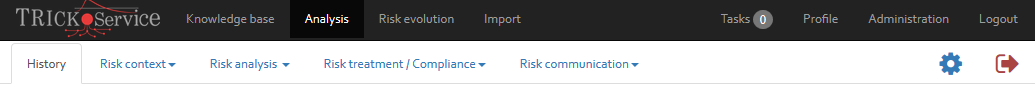
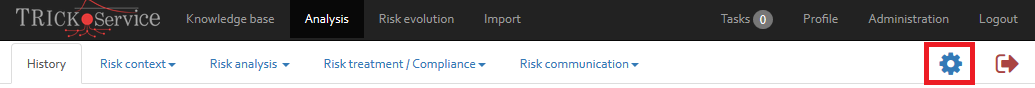
Update compilation. User guide

Changed region(s): [[0.8657, 0.4773, 0.9585, 0.9773]]

diff --git a/src/main/webapp/WEB-INF/static/views/user-guide.html b/src/main/webapp/WEB-INF/static/views/user-guide.html
@@ -1101,24 +1101,19 @@
 		choose to provide a second comment in the “Hidden Comment” column which will not be displayed in the exported report. It
 		is not mandatory for the user to fill in this column however, in certain cases it may be necessary to add more useful information.</p>
 	<h4>Manage</h4>
-	<p>The content of each section (“threats”, “vulnerabilities”, and “risk”) can be edited. In the upper right corner, three options are available (also see <a href="#_FIG_brainstorming">[Figure]</a>):</p>
-	<ul>
-		<li><strong>Export</strong>: Export all data from all sheets into a single Excel file (with three sheets). The structure of the Excel file is the same as the one in TRICK Service.</li>
-		<li><strong>Import</strong>: Clears all data from the sheets in TRICK Service, and replaces it with the data contained in the provided Excel file (with three sheets). It is strongly recommended to use a previously exported file as a template.</li>
-		<li><strong>Manage</strong>: Opens a pop-up where quick changes can be made directly in TRICK Service. Each entry has three associated buttons:
-			<ul>
-				<li>[−] Deletes only the current line;</li>
-				<li>[−] Deletes the current line, and all lines starting with the same reference number;
-					<div class="alert alert-info">For historical reasons, this button ignores trailing zeroes (<code>0</code>) and periods (<code>.</code>). So, deleting <code>5.0.0.</code> with this button will also delete all references starting with <code>5</code>.</div>
-				</li>
-				<li>[+] Adds a new, empty line below the current line.</li>
-			</ul>
-		</li>
-	</ul>
+	<p>The content of each section (“threats”, “vulnerabilities”, and “risk”) can be edited. In the upper right corner, an option is available to change their content (also see <a href="#_FIG_brainstorming">[Figure]</a>).</p>
 	<figure id="_FIG_brainstorming" class="figure">
 		<img src="img/brainstorming.png" class="figure-img img-fluid" />
 		<figcaption class="figure-caption">Editing brainstorming sections through export, import, and manual editing.</figcaption>
 	</figure>
+	<p>Click the “Manage” button to open a pop-up where quick changes can be made directly in TRICK Service. Each entry has three associated buttons:</p>
+	<ul>
+		<li>[−] Deletes only the current line;</li>
+		<li>[−] Deletes the current line, and all lines starting with the same reference number;
+			<div class="alert alert-info">For historical reasons, this button ignores trailing zeroes (<code>0</code>) and periods (<code>.</code>). So, deleting <code>5.0.0.</code> with this button will also delete all references starting with <code>5</code>.</div>
+		</li>
+		<li>[+] Adds a new, empty line below the current line.</li>
+	</ul>
 	<h3 id="risk-assessment">Risk assessment</h3>
 	<h4><a id="analysis-asset"></a>Assets</h4>
 	<p>The assets section contains a table listing all assets that are within the scope of the risk assessment. In the ribbon above
@@ -2145,17 +2140,12 @@
 	<h4><a id="analysis-chart-budget"></a>Budget by Action Plan (only for quantitative risk analyses)</h4>
 	<p>The budget chart presents a chart containing the needed budget per implementation phase of the security measures.</p>
 	<h2 id="actions">Actions</h2>
-	<p>On the right-hand side of the analysis ribbon (highlighted in red in the figure below), is the actions drop-down menu. This
-		menu contains options which are described in detail in the following sections.</p>
-	<figure id="_FIG_74" class="figure">
+	<p>More advanced options can be found in the “Actions” menu (gear icon) on the right-hand side of the analysis ribbon (highlighted in red in <a href="#_FIG_actions">[Figure]</a> below). Its menu items are described in greater detail in the following sections.</p>
+	<figure id="_FIG_actions" class="figure">
 		<img src="img/76.png" class="figure-img img-fluid" />
 		<br />
-		<img src="img/77.png" class="figure-img img-fluid" />
-		<figure class="figure">
-			<img src="img/78.png" class="figure-img img-fluid" />
-			<figcaption class="figure-caption">Risk specificities definition view.</figcaption>
-		</figure>
-		<figcaption class="figure-caption" id="_FIG_73">Action menu.</figcaption>
+		<img src="img/actions.png" class="figure-img img-fluid" />
+		<figcaption class="figure-caption">Action menu.</figcaption>
 	</figure>
 	<h3 id="manual-update">Manual update</h3>
 	<h4>Compute action plan</h4>
@@ -2168,8 +2158,18 @@
 	<p>The update estimation option will recompute all ALE. This option should only be used when the automatic computation of the
 		ALE failed.</p>
 	<h3 id="export--">Export</h3>
+	<p>Clicking on “Export” will open the centralised export interface, from where most of the data entered into TRICK Service can be exported to portable formats.</p>
+	<figure class="figure" id="_FIG_exportui">
+		<img src="img/export_ui.png" class="figure-img img-fluid" />
+		<figcaption class="figure-caption">Centralized export interface.</figcaption>
+	</figure>
+	<p>The interface is structured as follows: on the right-hand side, the user can choose what shall be exported. The left-hand side of the interface will then show configuration options (if applicable), which are explained in the sub-sections below. As a final step, the data can be exported via the “Export” button in the lower right corner. See <a href="#_FIG_exportui">[Figure]</a> for an illustration.</p>
+	<h4>Brainstorming</h4>
+	<p>Export all data from all sheets from the “Brainstorming” section (see <a href="#brainstorming">[Section]</a>) into a single Excel file (with three sheets). The structure of the Excel file is the same as the one in TRICK Service.</p>
+	<h4 id="export--measures">Measures</h4>
+	<p>Exports all security measures from the selected measure collections as an Excel sheet. Multiple standards can be selected using the SHIFT and CTRL keys on the keyboard.</p>
 	<h4>Report</h4>
-	<p>By clicking on “Report”, the user will get a structured risk analysis report including all data of selected the risk analysis.
+	<p>By clicking on “Export”, the user will get a structured risk analysis report including all data of selected the risk analysis.
 		The report is a word file including macros for the creation of charts &amp; tables.</p>
 	<figure id="_FIG_74b" class="figure">
 		<img src="img/78b.png" class="figure-img img-fluid" />
@@ -2179,38 +2179,59 @@
 	<p>You can also upload a previously exported report that gets automatically updated (even if styling or content changes have been made to the document).</p>
 	<div class="alert alert-warning">This feature is still experimental, though, and might not work as expected.</div>
 	<h4>Statement of Applicability</h4>
-	<p>By clicking on “Statement of Applicability”, the user will get a word document including the statement of applicability.</p>
-	<h4>Risk register</h4>
-	<p>By clicking on “Risk register”, you will get a Word document including the risk register.</p>
-	<h4>Risk sheets</h4>
-	<p>By clicking on “Risk sheets”, you can choose with the help thresholds which risk sheets you want to export. The risk sheets
-		will be included in a word document.</p>
-	<h4>Risk sheets (raw)</h4>
-	<p>By clicking on “Risk sheets (raw), you get the risk sheets data in form of a Microsoft Excel file.</p>
-	<h4>Action plan (raw)</h4>
-	<p>This option allows to export the data of an action plan under Microsoft Excel format.</p>
-	<h3 id="rrf-only-for-quantitative-risk-analyses">RRF (only for quantitative risk analyses)</h3>
-	<h4>Open RRF</h4>
-	<p>The open RRF option opens the Risk Reduction Factor view where the user can define the risk specificities for the different
-		risk scenarios and the influence of the security measures on risks of the current risk analysis.</p>
+	<p>By clicking on “Export”, the user will get a word document including the statement of applicability.</p>
+	<h4 id="export--risk-estimations">Risk estimations</h4>
+	<p>By clicking on “Export”, you will get an Excel spreadsheet that contains all likelihood and impact estimations for all assets and scenarios.</p>
+	<p>In contrast to the risk sheet, this spreadsheet can be imported back into TRICK Service.</p>
+	<h4>Risk sheet</h4>
+	<p>This allows you to export a register of all the risks encoded in TRICK Service. It is a summary of all of the risk estimations, arranged visually.</p>
+	<p>The risk sheet can exported in two formats: as a Word report (for printing) or as an Excel file (for manipulation). The following options can be configured:</p>
+	<ul>
+		<li><strong>Risk sheets format:</strong> (Only for Word report) Whether the risk sheet should meet with the CSSF requirements.</li>
+		<li><strong>Impact threshold:</strong> The minimum impact starting at which a risk is exported. If a risk has a lower impact, it will be omitted in the export.</li>
+		<li><strong>Probability threshold:</strong> </li>
+		<li><strong>Direct size:</strong> The number of most important “direct” (in the CSSF sense) risks that shall be exported. All other risks will be omitted. Select “All” to disable the filter.</li>
+		<li><strong>Indirect size:</strong> The number of most important “indirect” (in the CSSF sense) risks that shall be exported. All other risks will be omitted. Select “All” to disable the filter.</li>
+		<li><strong>CIA size:</strong> The number of most important “confidentiality/integrity/integrity” risks that shall be exported. All other risks will be omitted. Select “All” to disable the filter.</li>
+		<li><strong>Owner:</strong> A filter for only exporting those risks that are associated to the selected owner. Select “All” to disable the filter.</li>
+	</ul>
+	<div class="alert alert-warning">The risk sheet is only meant for documentation/compliance purposes. It cannot be imported back into TRICK Service! Consider exporting the risk estimations, instead.</div>
+	<h4 id="export--rrf">RRF</h4>
+	<p>This option allows to export all RRF values of the different standards in Microsoft Excel format. This allows the user to modify more fast several RRF values. With the help of the Import option, the user can reimport and overwrite the RRF values again.</p>
+	<div class="alert alert-warning">
+		The exported file is bound to the analysis and analysis version that it was exported from!
+		Importing it to another analysis or version will fail.
+		This choice has been been made to prevent accidental upload of bad data and potential data loss.
+		If you absolutely want to copy the RRF values from analysis “A” to analysis “B”, you can always export the RRF values for both “A” and “B”, copy over the contents manually (in Excel) from the exported file “A” to the exported file “B”, and import file “B” into analysis “B”.
+	</div>
+	<h3 id="import--">Import</h3>
+	<p>Clicking on “Import” will open the centralised import interface, from where data can be imported back (again) into TRICK Service.</p>
+	<figure class="figure" id="_FIG_importui">
+		<img src="img/import_ui.png" class="figure-img img-fluid" />
+		<figcaption class="figure-caption">Centralized import interface.</figcaption>
+	</figure>
+	<p>The interface is structured as follows: on the right-hand side, the user can choose what shall be imported. The left-hand side of the interface will then show configuration options (if applicable) and a possibility to select the import file. The options are explained in the sub-sections below. As a final step, the data can be imported via the “Import” button in the lower right corner. See <a href="#_FIG_importui">[Figure]</a> for an illustration.</p>
+	<h4>Brainstorming</h4>
+	<p>Clears all data from the sheets in TRICK Service, and replaces it with the data contained in the provided Excel file (with three sheets). It is strongly recommended to use a previously exported file as a template.</p>
+	<h4>Measures</h4>
+	<p>Imports back previously exported security measures from an Excel spreadsheet. The format of the file is the same than the one exported by TRICK Service (<a href="#export--measures">[Section]</a>). Instead of starting from a raw file, consider exporting a file, adapting it, and importing it.</p>
+	<h4>Risk estimations</h4>
+	<p>Imports back previously exported risk estimations from an Excel spreadsheet. The format of the file is the same than the one exported by TRICK Service (<a href="#export--risk-estimations">[Section]</a>). Instead of starting from a raw file, consider exporting a file, adapting it, and importing it.</p>
+	<h4>RRF</h4>
+	<p>The RRF values can be imported either from a previously exported file, or from the knowledge database (i.e., from another analysis). In either case, the RRF values will be replaced by those in the file/analysis for the selected standards.</p>
+	<p>In the first case, the file must match the format of the file exported by TRICK Service (<a href="#export--rrf">[Section]</a>). The RRF values for all standards contained in the file will be imported. When a standard is missing in the file, the related RRF values will remain unchanged in the analysis.</p>
+	<p>In the second case, the user must select a risk analysis profile, or an analysis of a customer. In a seconds step, the user must select all standards for which he wishes to import the RRF values; multiple standards can be selected using the SHIFT or CTRL keys on the keyboard. When a standard is not selected, the related RRF values will remain unchanged in the analysis.</p>
 	<figure id="_FIG_75" class="figure">
 		<img src="img/79.png" class="figure-img img-fluid" />
 		<figcaption class="figure-caption">Import of risk specificity values.</figcaption>
 	</figure>
-	<h4>Import RRF</h4>
-	<p>The import RRF option allows the user to import the RRF values from a risk analysis profile or from another customer. First
-		the user has to select from which profile/ customer and from which analysis he likes to import the RRF values and second
-		he has to select for which standard he wants to copy the values.</p>
-	<p>Once the user selected a profile and a standard, he can import the RRF values defined in the profile for the selected standard
-		to the current analysis. Note that the RRF values of the standard in the current analysis will be overwritten by the RRF
-		values from the standard of the analysis profile.</p>
-	<h4>Import (Raw)</h4>
-	<p>With the help of the Import (Raw) option, the user can import and overwrite the RRF values of the selected risk analysis.
-		The import file must be under Microsoft Excel format and correspond to the format of the exported (raw) data file.</p>
-	<h4>Export (Raw)</h4>
-	<p>The export (raw) option allows to export all RRF values of the different standards in Microsoft Excel format. This allows
-		the user to modify more fast several RRF values. With the help of the Import (Raw) option, the user can reimport and overwrite
-		the RRF values of the selected risk analysis.</p>
+	<h3 id="rrf-only-for-quantitative-risk-analyses">RRF (only for quantitative risk analyses)</h3>
+	<p>The open RRF option opens the Risk Reduction Factor view where the user can define the risk specificities for the different
+		risk scenarios and the influence of the security measures on risks of the current risk analysis.</p>
+	<figure class="figure">
+		<img src="img/78.png" class="figure-img img-fluid" />
+		<figcaption class="figure-caption">Risk specificities definition view.</figcaption>
+	</figure>
 	<h3 id="edit-text-fields">Edit text fields</h3>
 	<p>You can choose between “open” or “close” edit modes to open or close all text fields of the selected risk analysis.</p>
 	<h3 id="settings--">Settings</h3>
@@ -3168,6 +3189,18 @@
 	</table>
 
 	<h1 id="annex-d-changelog">Annex D – Changelog</h1>
+	<h2 id="whats-new-in-ts-2.11">What's new in TRICK Service 2.11</h2>
+	<ul>
+		<li>Central export interface: all im-/export features can now be found in a central place.</li>
+		<li>Import/export risk estimations from/to an Excel file.</li>
+		<li>Renaming an analysis now also renames all versions.</li>
+		<li>Fixed bug which caused an import of the brainstorming to fail under certain conditions.</li>
+		<li>Fixed bug where asset name could not be renamed if only the capitalisation of the name changed.</li>
+		<li>Fixed bug where measures could not be changed in the knowledge base.</li>
+		<li>Fixed bug which prevented measures from being selected in the risk estimation UI.</li>
+		<li>API: added support for exporting dynamic risk analysis</li>
+		<li>API: also exporting the &quot;selected&quot; flag of assets</li>
+	</ul>
 	<h2 id="whats-new-in-ts-2.10">What's new in TRICK Service 2.10</h2>
 	<ul>
 		<li>Re-arranged menu bar in analyses overview.</li>
